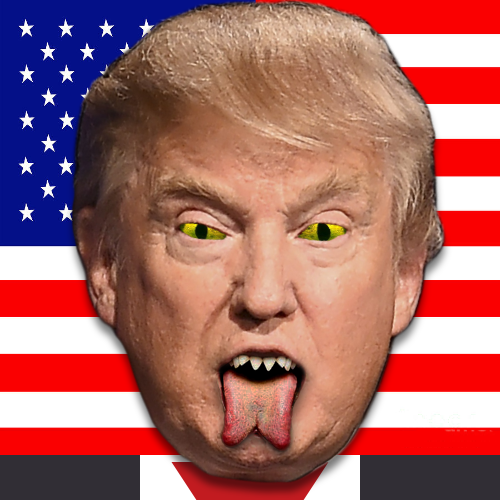
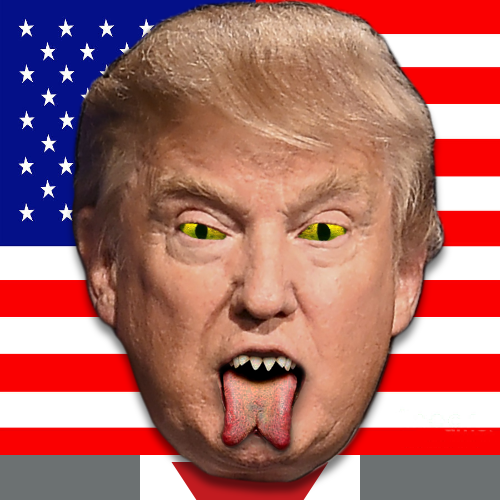
new colour and image

Changed region(s): [[0.72, 0.9, 1.0, 1.0], [0.0, 0.9, 0.3, 1.0]]

diff --git a/app/main.py b/app/main.py
@@ -17,7 +17,7 @@ def index():
     )
 
     return {
-        'color': '#303030',
+        'color': '#717171',
         'head': head_url
     }
 
